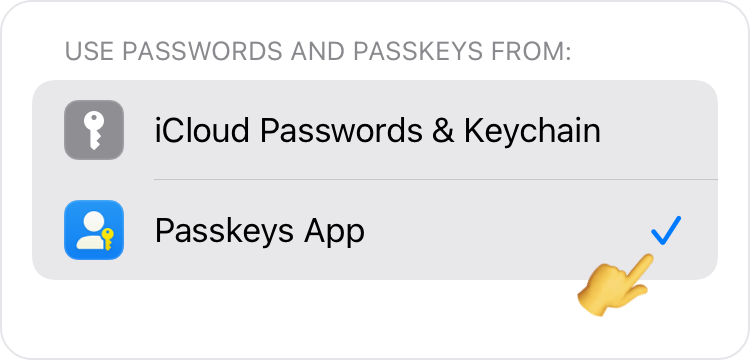
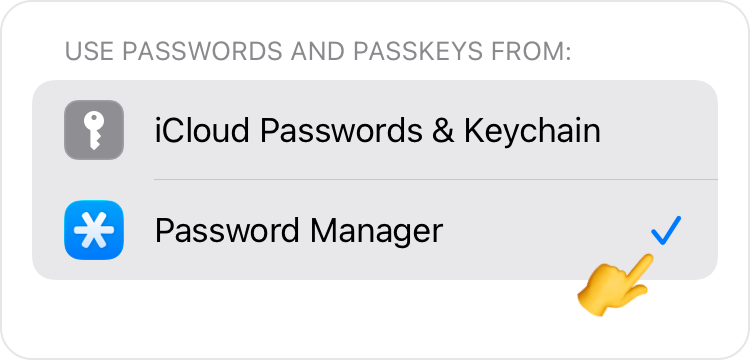
fixed help images

Changed region(s): [[0.276, 0.6111, 0.5827, 0.7028], [0.0613, 0.55, 0.184, 0.7333], [0.7667, 0.7028, 0.8893, 0.8861]]

diff --git a/help/iOS/0005.md b/help/iOS/0005.md
@@ -18,7 +18,7 @@ Starting with iOS 17, Apple allows choosing the main password manager app from y
 
 *3. Tap **Passwords Options**.* <img src="../assets/PasswordOptions.png" style="width:22px;" alt="Password Options image"/>
 
-*4. Select **Password Manager**.* <img src="../assets/PasskeysApp.png" style="width:22px;" alt="Passkeys App image"/>
+*4. Select **Password Manager**.* <img src="../assets/PasswordsApp.png" style="width:22px;" alt="Passkeys App image"/>
 
 <br />
 
